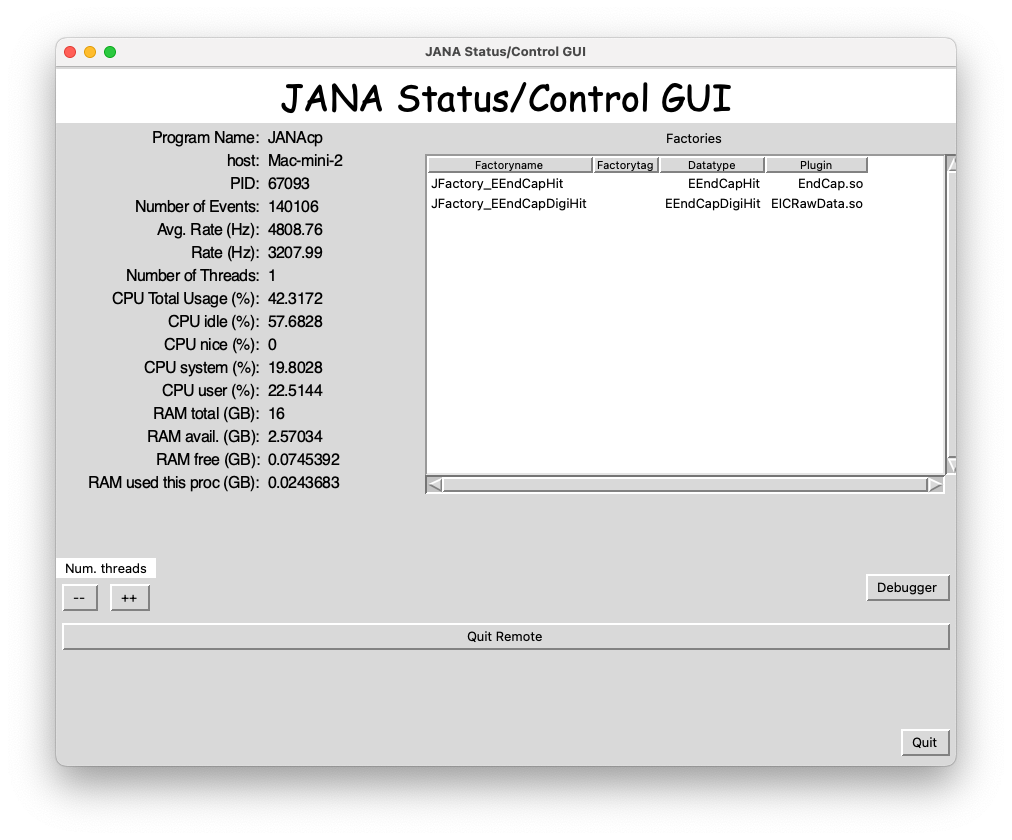
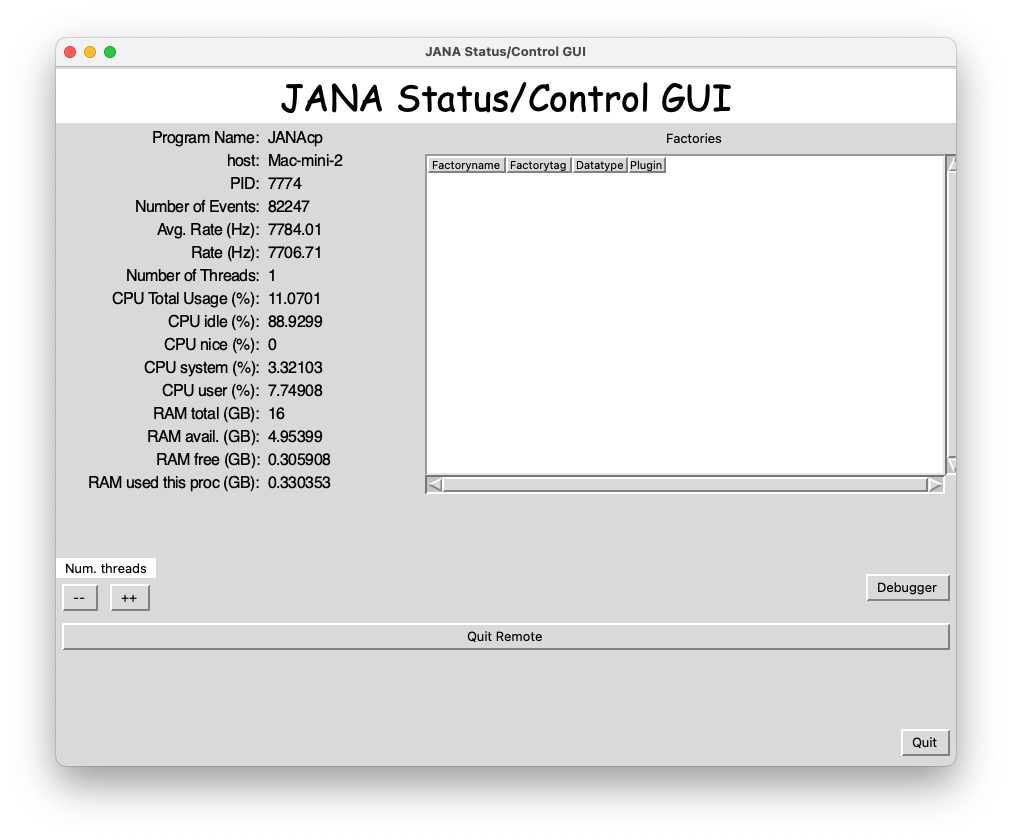
Update documentation.

diff --git a/README.md b/README.md
@@ -1,11 +1,40 @@
-# Example of JANA2 and Geometry Service 
-This is an example written in response for a request to demonstrate how the JANA2 framework would implement DD4hep geometry to select endcap tracker hits greater than a certain radius. 
+# Example of JANA2 PODIO Event Source 
+This is an example of implementing an event source in JANA that uses PODIO to read events from a ROOT file created by the PODIO tests/write program.
 
-The example is in the form of 3 plugins that can be used with the simple `jana` exectuable provided with JANA2. The plugins implement an event source, two levels of factories, an event processor, and a geometry service. Some extensive comments are in the code and you are encouraged to look there for details. Here is a diagram showing how the parts are connected conceptually.
+The example is in the form of a single plugin, ''jana_podio'', that implements the event source and a minimal event processor that requests one of the 3 types of objects the event source provides.
 
 ![Conceptual diagram](docs/diagram.png?raw=true "Conceptual Diagram of Example")
 
-Simple instructions for testing this are:
+Instructions for testing this are below. These include instructions for building ROOT using the C++17 standard since PODIO requires this.
+
+
+## Work directory and Python environment
+PODIO requires the ''pyyaml'' and ''jinja2'' packages be installed. These were not installed by default on my system so I installed them in a virtual Python environment. Do this first to ensure ROOT uses the same Python environment that PODIO uses.
+
+Also, I
+
+~~~ bash
+export WORKDIR=${PWD}        # make it easy to get back to this directory
+
+python3 -m venv venv
+source venv/bin/activate
+pip install pyyaml jinja2
+~~~
+
+## Build ROOT
+PODIO requires ROOT built with C++17 standard.
+~~~ bash
+mkdir ${WORKDIR}/root
+cd ${WORKDIR}/root
+wget https://root.cern/download/root_v6.26.04.source.tar.gz
+tar xzf root_v6.26.04.source.tar.gz
+mv root-6.26.04 root-6.26.04.src
+mkdir root-6.26.04.build root-6.26.04
+cd root-6.26.04.build
+cmake -DCMAKE_CXX_STANDARD=17 -DCMAKE_INSTALL_PREFIX=../root-6.26.04 -Dbuiltin_glew=ON ../root-6.26.04.src
+make -j8 install
+source ../root-6.26.04/bin/thisroot.sh
+~~~
 
 ## Build JANA
 ~~~ bash
@@ -16,36 +45,41 @@ git clone https://github.com/JeffersonLab/JANA2 --branch ${JANA_VERSION} ${JANA_
 
 mkdir build                                   # Set build dir
 cd build
-cmake ${JANA_HOME}                           # Generate makefiles (add -DUSE_ZEROMQ=1 if you have ZeroMQ available) 
+cmake ${JANA_HOME} -DUSE_ROOT=1               # Generate makefiles (add -DUSE_ZEROMQ=1 if you have ZeroMQ available) 
 make -j8 install                              # Build (using 8 threads) and install
 
 source ${JANA_HOME}/bin/jana-this.sh          # Set PATH (and other envars)
 ~~~
 
+## Build PODIO
+~~~ bash
+cd ${WORKDIR}
+git clone https://github.com/AIDASoft/podio -b v00-14-03 PODIO_v00-14-03
+mkdir PODIO_v00-14-03/build PODIO_v00-14-03/install
+cd PODIO_v00-14-03
+source init.sh
+cd build
+cmake -DCMAKE_INSTALL_PREFIX=../install -DUSE_EXTERNAL_CATCH2=OFF ../
+make -j8 install
+
+tests/write            # Create example.root file using PODIO
+~~~
+
 ## Build example
 ~~~ bash
-git clone https://github.com/faustus123/EIC_JANA_Example
+git clone https://github.com/faustus123/EIC_JANA_Example --branch PODIO_example
 cd EIC_JANA_Example
-mkdir -p EICRawData/build ExampleDD4HepService/build EndCap/build
+mkdir -p jana_podio/build
 
-cd EICRawData/build
-cmake ..
-make -j8 install
-
-cd ../../ExampleDD4HepService/build
-cmake ..
-make -j8 install
-
-cd ../../EndCap/build
+cd jana_podio/build
 cmake ..
 make -j8 install
 ~~~
 
 ## Run example
 ~~~ bash
-jana -PPLUGINS=EICRawData,EndCap,ExampleDD4HepService dummy
+jana -PPLUGINS=jana_podio ${WORKDIR}/PODIO_v00-14-03/build/example.root
 ~~~
-Type `Ctl-c` to stop the program.
 
 _n.b. the "dummy" argument at the end represents the name of an event source. In this example, the events are fake and generated by the event source. A placeholder string is just needed to represent some input (e.g. filename)_
 
@@ -53,7 +87,7 @@ If you built JANA2 with ZeroMQ support then, you can run it with the `janacontro
 then open the jana-control.py browser in another terminal:
 ~~~ bash
 # In terminal 1:
-jana -PPLUGINS=EICRawData,EndCap,ExampleDD4HepService,janacontrol dummy
+jana -PPLUGINS=jana_podio,janacontrol ${WORKDIR}/PODIO_v00-14-03/build/example.root
 
 # In terminal 2:
 jana-control.py
